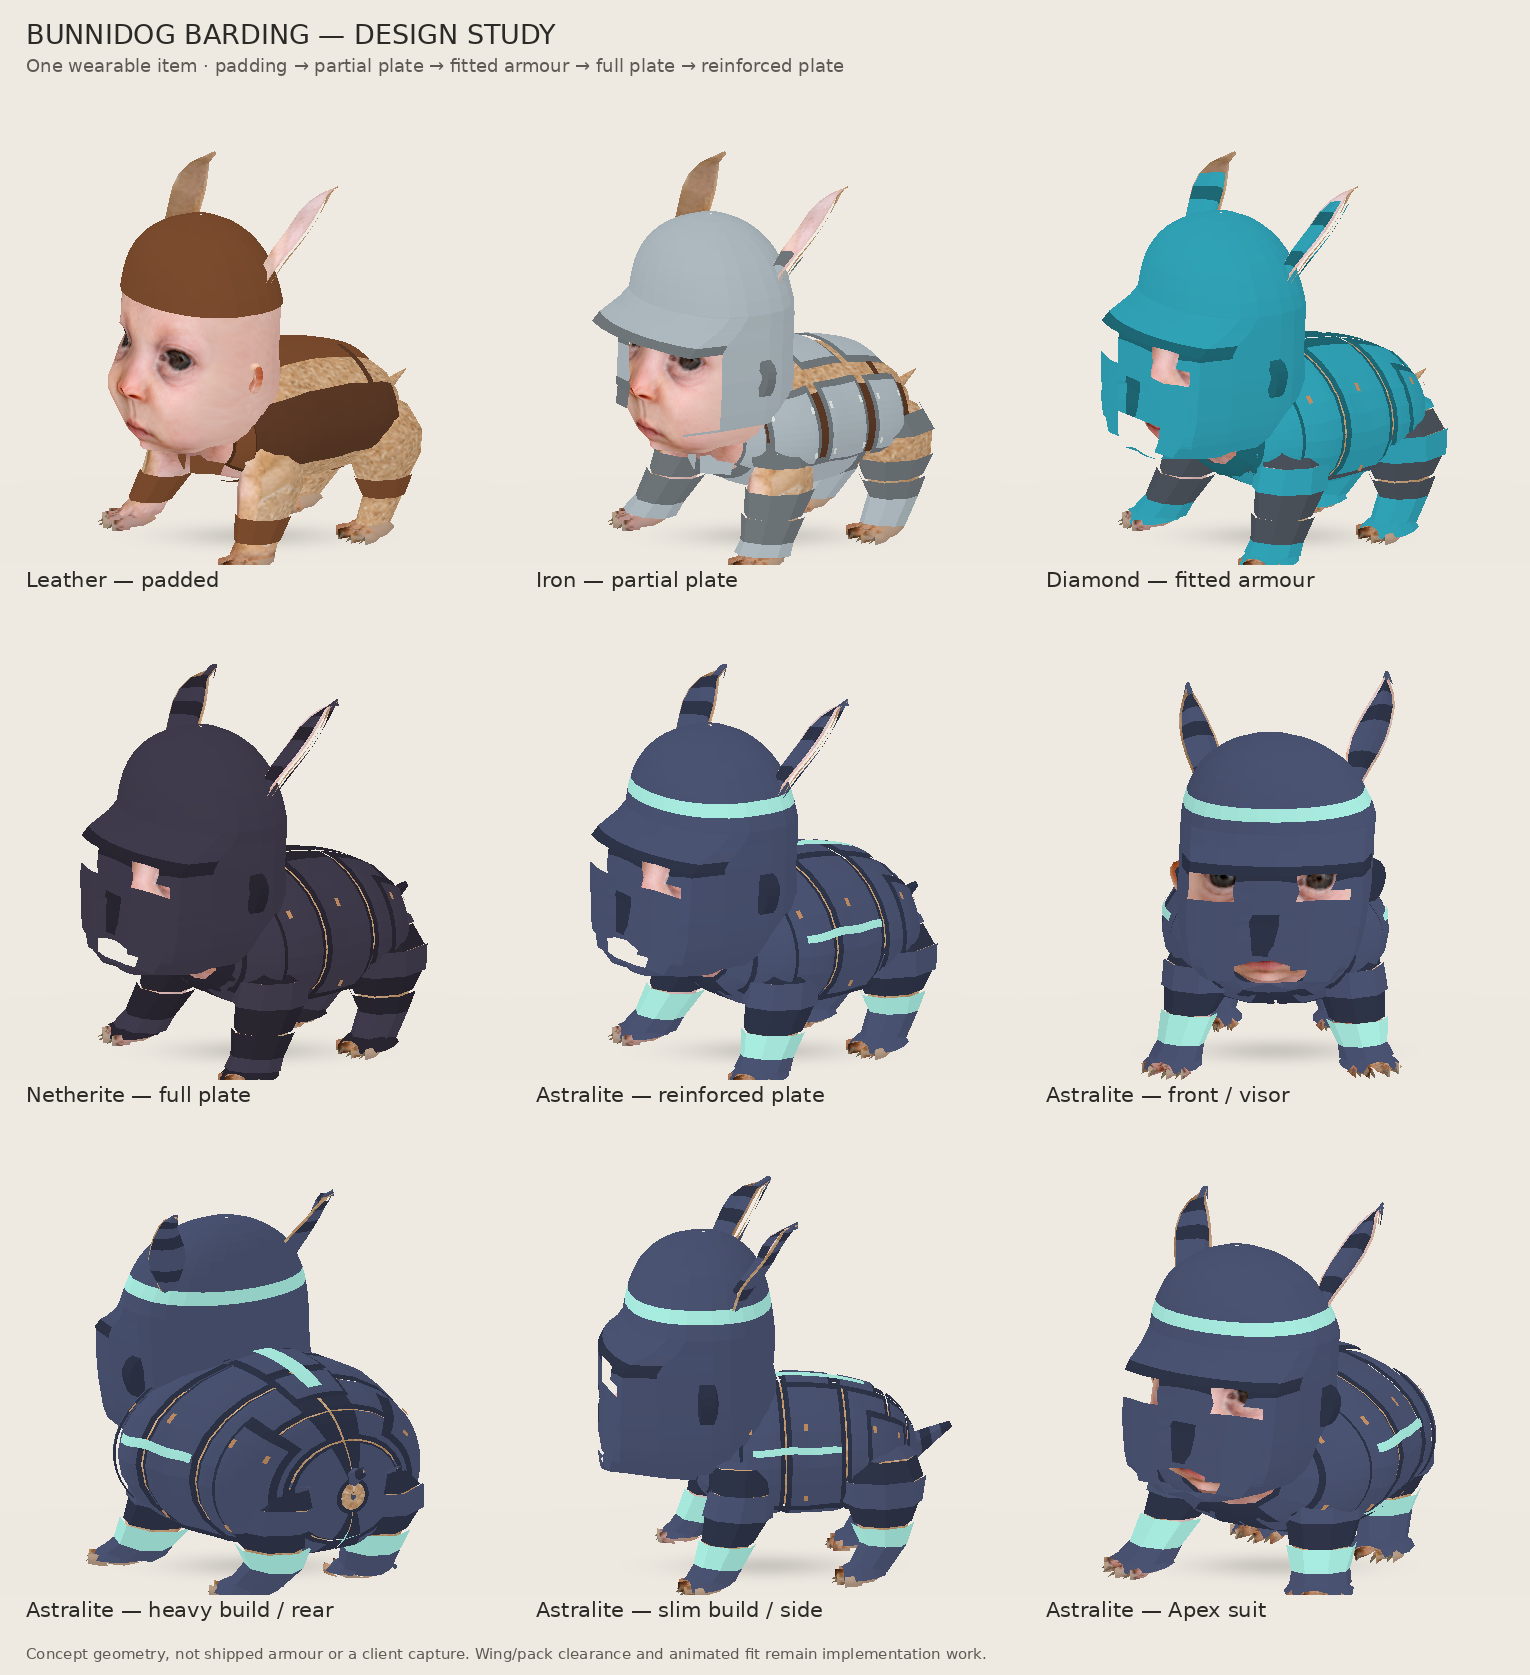
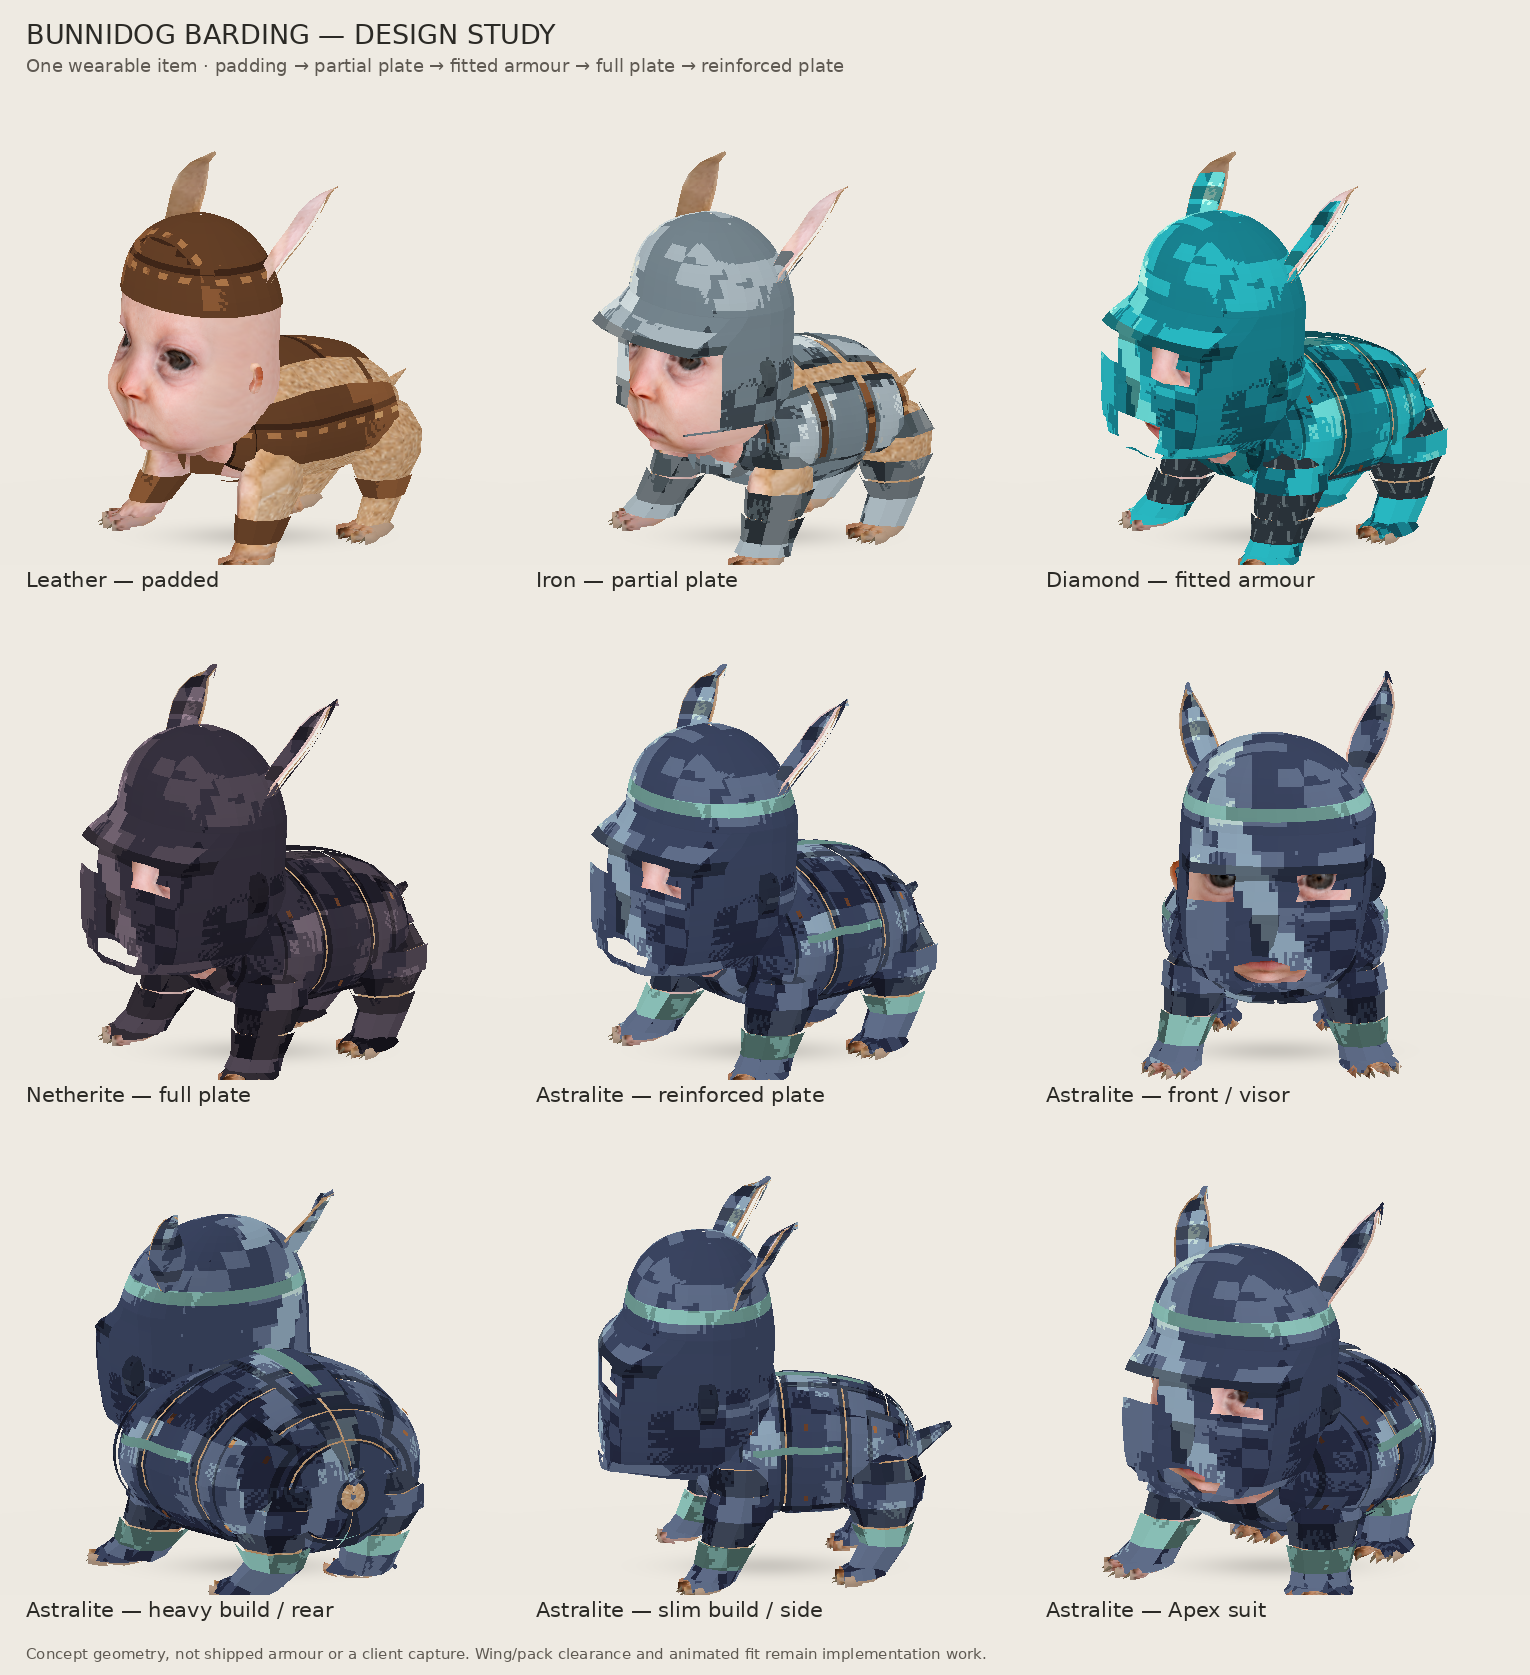
Texture barding materials using worn vanilla armour references

diff --git a/art/preview_barding_design.py b/art/preview_barding_design.py
@@ -27,7 +27,65 @@ def face(points, colour_slot):
     points = np.asarray(points, dtype=float)
     normal = np.cross(points[2] - points[0], points[3] - points[1])
     normal /= np.linalg.norm(normal)
-    return points, normal, (4 + colour_slot * 12, 516), (4, 4), np.tile(normal, (4, 1))
+    # Continuous object-space UVs replace the old single-colour swatch. Shared
+    # coordinates keep surface marks coherent across neighbouring mesh faces.
+    axis=int(np.argmax(np.abs(normal)))
+    u=points[:,2] if axis==0 else points[:,0]
+    v=points[:,2]+12 if axis==1 else 20-points[:,1]
+    uv=np.column_stack(((colour_slot%4)*256+8*(u+12)+4,
+                        512+(colour_slot//4)*256+8*v+4))
+    return points, normal, uv, (0,0), np.tile(normal, (4, 1))
+
+
+def material_atlas(tier,fur):
+    """Authored pixel ramps informed by vanilla worn armour/horse equipment.
+
+    Broad stepped reflections and recesses carry the material; fine grain stays
+    subordinate. All samples are original, not copied Minecraft texture pixels.
+    """
+    ramps=[
+        ['#402719','#654027','#8b5935','#ad7749','#d0a06a'],
+        ['#414b53','#75858e','#aab8bf','#d4dfe1','#f0f0df'],
+        ['#12515e','#198391','#29b8c2','#6cddd9','#bdfff0'],
+        ['#211f2b','#36313f','#514754','#726371','#988392'],
+        ['#242940','#3b4561','#606e8a','#8fa7bb','#c3dcd9'],
+    ]
+    from PIL import ImageColor
+    main=np.array([ImageColor.getrgb(c) for c in ramps[tier]],dtype=float)
+    leather=np.array([ImageColor.getrgb(c) for c in ramps[0]],dtype=float)
+    accent=np.array(TIERS[tier][2],dtype=float)
+    palettes=[main,np.array([accent*f for f in (.43,.63,.82,1,1.08)]),
+              main*.64,leather,
+              np.array([(65,39,27),(111,66,42),(173,111,67),(218,165,107),(245,211,157)]),
+              np.array([(26,31,36),(44,53,60),(66,78,84),(98,111,116),(135,146,144)])]
+    atlas=Image.new('RGB',(1024,1024),BG);atlas.paste(fur,(0,0))
+    yy,xx=np.mgrid[:256,:256]
+    # Stable coarse patches make large plates readable at ordinary game distance.
+    coarse=((xx//9*73+yy//7*151+(xx//9)*(yy//7)*13)%101)/100
+    fine=((xx*37+yy*67+xx*yy*3)%71)/70
+    field=.42+.17*np.sin((xx+yy*.48)/27)+.14*np.cos((xx*.44-yy)/39)+.16*(coarse-.5)+.035*(fine-.5)
+    for slot,palette in enumerate(palettes):
+        values=field.copy()
+        if slot in (0,2) and tier>0:
+            # Wide stepped glints, not uniform brightness or per-face speckles.
+            band=(xx+yy//6*3)%109
+            values+=np.where((band>34)&(band<47),.30,0)
+            values-=np.where((band>82)&(band<91),.16,0)
+            if tier in (2,4):
+                values+=np.where(((xx//24+yy//32)%5==1)&(yy%32<5),.18,0)
+        if (slot==0 and tier==0) or slot==3:
+            values=.40+.12*np.sin(xx/19)+.12*(coarse-.5)+.05*(fine-.5)
+            values-=np.where(yy%57<2,.22,0)
+            values+=np.where((yy%57>=3)&(yy%57<5)&(xx%9<4),.34,0)
+        if slot==5:
+            # Small staggered mail links sit in dark sockets.
+            links=((xx+(yy//6%2)*3)%6)
+            values=np.where((links==1)&(yy%6<4),.75,.25)
+            values=np.where((links==2)&(yy%6==3),.52,values)
+        indices=np.minimum(4,np.maximum(0,(values*5).astype(int)))
+        pixels=np.clip(palette[indices],0,255).astype('uint8')
+        atlas.paste(Image.fromarray(pixels),((slot%4)*256,512+(slot//4)*256))
+    return atlas
 
 
 # The approved torso's authored sections, used only as a fitting reference.
@@ -246,13 +304,7 @@ def main():
               (4,-85,.8,'Astralite — slim build / side'),
               (4,-30,1.25,'Astralite — Apex suit')]
     for index, (tier, yaw, build, label) in enumerate(cases):
-        texture = Image.new('RGB', (512, 528), BG)
-        texture.paste(fur, (0, 0))
-        tex_draw = ImageDraw.Draw(texture)
-        palette = (*TIERS[tier][1:], tuple(int(c*.65) for c in TIERS[tier][1]),
-                   (93, 58, 39), (196, 143, 99), (76, 83, 92))
-        for slot, colour in enumerate(palette):
-            tex_draw.rectangle((slot*12, 512, slot*12+11, 527), fill=colour)
+        texture = material_atlas(tier,fur)
         image = render(study(tier, build), np.asarray(texture, dtype=float),
                        yaw=yaw, elevation=16, width=width, height=height-40, zoom=23)
         x, y = (index % 3) * width, 90 + (index // 3) * height

diff --git a/art/preview_bunnidog.py b/art/preview_bunnidog.py
@@ -106,9 +106,12 @@ def render(faces, texture, yaw=0, elevation=7, width=650, height=820, zoom=35, p
             continue
         projected = (corners - center) @ basis.T
         projected[:, :2] = projected[:, :2] * zoom + (width / 2, height / 2)
-        u, v = uv
-        w, h = size
-        texcoords = np.asarray(((u, v), (u + w, v), (u + w, v + h), (u, v + h)))
+        if len(uv) == 4:
+            texcoords = np.asarray(uv)
+        else:
+            u, v = uv
+            w, h = size
+            texcoords = np.asarray(((u, v), (u + w, v), (u + w, v + h), (u, v + h)))
         for indices in ((0, 1, 2), (0, 2, 3)):
             tri, tex = projected[list(indices)], texcoords[list(indices)]
             tri_normals = vertex_normals[list(indices)]
@@ -141,7 +144,7 @@ def render(faces, texture, yaw=0, elevation=7, width=650, height=820, zoom=35, p
             vi = np.clip(vi, 0, texture.shape[0] - 2)
             col = ((texture[vi, ui, :3] * (1 - uf[:, :, None]) + texture[vi, ui + 1, :3] * uf[:, :, None]) * (1 - vf[:, :, None]) +
                    (texture[vi + 1, ui, :3] * (1 - uf[:, :, None]) + texture[vi + 1, ui + 1, :3] * uf[:, :, None]) * vf[:, :, None])
-            if nearest:
+            if nearest or len(uv) == 4:
                 col = texture[np.clip(np.floor(vt + .5).astype(int), 0, texture.shape[0] - 1),
                               np.clip(np.floor(ut + .5).astype(int), 0, texture.shape[1] - 1), :3]
             depth[region][keep] = z[keep]

diff --git a/docs/BUNNIDOG_ARMOUR_PLAN.md b/docs/BUNNIDOG_ARMOUR_PLAN.md
@@ -94,6 +94,31 @@ in ordinary light; they do not create a bright aura or hide attack particles.
 Dungeon equipment is the same Astralite item players can craft, not an invisible
 enemy-only tier. The Crowned Apex retains its separate crown above the barding.
 
+### Material texture revision
+
+The player accepts the current model/coverage progression but rejects the flat,
+uniform colour. Preserve those shapes. Reference the **equipped** Iron, Diamond
+and Netherite horse renders on [Horse Armor](https://minecraft.wiki/w/Horse_Armor)
+and the resolved Minecraft 26.2 `textures/entity/equipment/humanoid` and
+`horse_body` atlases, rather than inventory icons. Their stepped light/shadow
+patches and painted edge reflections remain visible under ordinary world light.
+Do not substitute glossy shaders, brighter lighting or a remodel for texture.
+
+Use original material palettes with several distinct shadow, midtone and highlight
+colours. Leather gets seams, small stitches and restrained grain. Iron gets cool
+brushed patches and bright stepped glints; Diamond gets deeper teal recesses and
+pale angular reflections. Netherite uses charcoal/plum patches with muted warm
+highlights. Astralite uses blue-grey metal, pale steel highlights, copper fittings
+and separate restrained turquoise inlays. Mail has staggered links in dark sockets.
+Keep broad material variation readable at gameplay distance; fine grain supports
+it instead of turning every surface into random noise or a checkerboard.
+
+The concept uses continuous object-space UVs and pixel material swatches, replacing
+the old solid-colour samples. Plate coordinates, coverage, silhouettes, poses,
+camera and lighting are unchanged. The existing animal atlas is unchanged.
+These are authored concept textures, not copied vanilla pixels or shipped runtime
+atlases; final model-specific UVs still need runtime implementation and review.
+
 Wing roots pass through fitted articulated sockets in the shoulder/back armour,
 not large bare patches of torso. Winged upper-tier suits add leading-edge and
 root guards, with overlapping coverts over the inner wing; outer flight feathers

diff --git a/START_HERE.md b/START_HERE.md
@@ -13,6 +13,9 @@ Coverage progresses gradually: Leather padding/cap/wraps; Iron open helmet,
 partial body plates and greaves; Diamond enclosed torso, broader visor, upper-leg
 and paw guards; Netherite full plate; Astralite reinforced full plate. The final
 tiers protect head/ears, body/belly/rump, all four legs/paws and the tail.
+The accepted shape is retained; the latest texture study replaces flat swatches
+with material shading, stepped highlights, leather seams and mail detail informed
+by actual vanilla worn-armour/horse-armour assets and equipped horse references.
 Equipment provides protection, health, damage and modest mobility separately
 from genes. Future dungeon actors wear actual Astralite gear instead of the
 current enhanced champion genetics/modifiers. The Crowned Apex is rebased to

diff --git a/AGENTS.md b/AGENTS.md
@@ -90,6 +90,10 @@ broader visor and limb/paw guards, Netherite full plate, Astralite reinforced
 full plate. The top tiers protect head/ears, torso/belly/rump, limbs/paws and tail.
 Do not jump directly from a bare-limbed harness to a recoloured complete suit.
 It is still one item.
+The latest texture review accepts this model: retain its geometry/coverage and
+replace uniform swatches with material shading, broad stepped reflections, edge
+contrast, leather stitches and mail detail. Use worn armour/horse-armour references
+rather than inventory icons; avoid remodelling or shader-only fixes.
 When implementing it, remove those genetic
 and champion bonuses rather than stacking both systems; rebase Crowned values,
 preserve existing active fights and retain actual equipment ownership.
